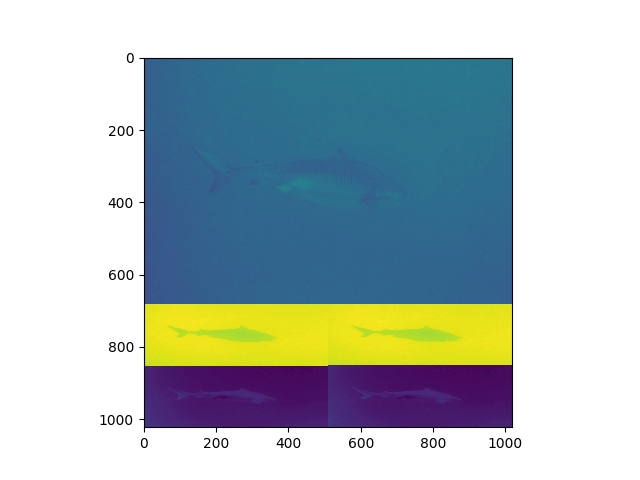
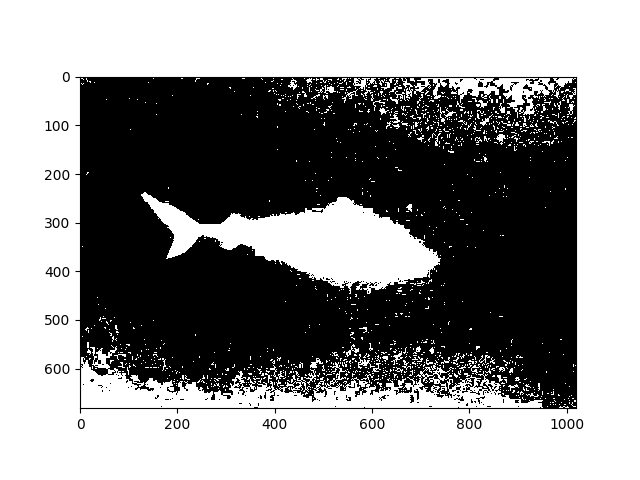
oo

diff --git a/Shark-attack/Shark-attack.py b/Shark-attack/Shark-attack.py
@@ -5,12 +5,38 @@ from matplotlib import pyplot as plt
 from matplotlib import image as image
 from pprint import pprint
 
+def get_shark(I):
+    # convert to contrasty color space 
+    Y = cv2.cvtColor(I, cv2.COLOR_BGR2LUV)
+    G = cv2.cvtColor(Y, cv2.COLOR_BGR2GRAY)
+    eqs = cv2.equalizeHist(G)
+
+    # Get an apply threshold
+    T = np.mean(eqs) + np.std(eqs) - 15
+    T, B = cv2.threshold(eqs, thresh = T, maxval= 255,type = cv2.THRESH_BINARY)
+
+    return B
+
+def get_shark2(I):
+    # convert to contrasty color space 
+    Y = cv2.cvtColor(I, cv2.COLOR_BGR2HLS)
+    G = cv2.cvtColor(Y, cv2.COLOR_BGR2GRAY)
+    eqs = cv2.equalizeHist(G)
+
+    # Get an apply threshold
+    T = np.mean(eqs) + np.std(eqs)
+    T, B = cv2.threshold(eqs, thresh = T, maxval= 255,type = cv2.THRESH_BINARY)
+
+    return eqs
 
 #get image
 I = cv2.imread("Shark 1.PNG")
+B = get_shark(I)
+C = get_shark2(I)
 
-IbutYUV = cv2.cvtColor(I, cv2.COLOR_BGR2YUV)
-Ibut = cv2.cvtColor(I, cv2.COLOR_BGR2YUV_I420)
-
-plt.imshow(Ibut)
+# write out 
+plt.imshow(B, cmap="gray")
 plt.savefig("tst.png")
+
+plt.imshow(C, cmap="gray")
+plt.savefig("tst2.png")
